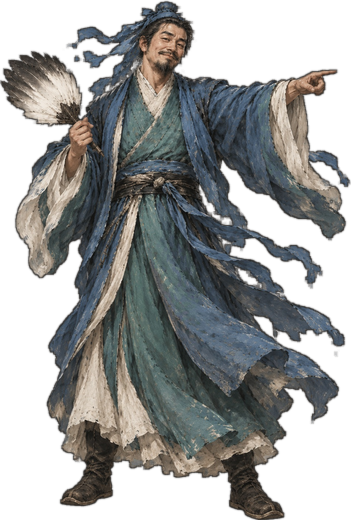
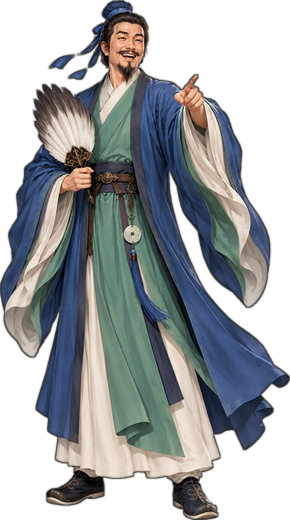
第17关剧情图补齐（30关全有）；简雍立绘和头像重画

diff --git a/设计/方案初稿.md b/设计/方案初稿.md
@@ -539,6 +539,8 @@
   - **神兵和卡关同步**（用户：「神兵不能那么容易升级，必须和卡关卡同步……目前第一章我们是哪几关比较难？如何设定？」→「按方案改」）：先实测「什么都不强化」时：1–8、10、12、15、16、20、26 关照样过，9、11、13、14、17–19、21、22、24、25、27、29、30 关大多过不去（缺的是剑印、龙鳞等招式），兵器本身没卡住任何一关。改成兵器每级 +12%、斗将差一级只打三成半、精铁 8/20/30/40/50，五个斗将关调到差一级 6 局最多赢 1 局（表见 `第一章设定.md` 5.6）。整体又重调一遍血量（这次发现上一轮有一次推演用的是浏览器缓存的旧页面，这轮全部重跑覆盖）。
   - **主页资料卡**（用户：「这个体也用个icon 吧，另外，这个游戏的物品就只有精铁吗？」「鼠标移动上去会有字说明，游戏UI」「你这些说明感觉好像很口语很儿戏，不像游戏」「其他来源都淡化，为什么这个不淡化」）：星、精铁、残页、陨铁、体力（ChatGPT 画的饭碗 `item_体力.png`）一排；所有物品图标鼠标悬停弹漆面说明牌（`hov`、`drawHoverTip`、`ITEM_TIP`）：金字名字、用途、淡色来源。
   - **剧情翻看、声效**（用户：「你专门开个故事我看看，可以来回翻动的」「这一下你不配一个打雷的声效吗」「来个马蹄声」「这个吕布白边明显，可以小一些」）：阅读模式（`?story` 或系统页翻看剧情）：点左边往回、右边往下，一场完接下一场，底下上一场/下一场；「轰——」配炸雷：轰隆轰隆三下、一下比一下远，每下整幅白闪、立绘一抖（用户：「雷声太小了，而且要轰隆轰隆2-3下」，`THUNDER`）；雷没打完（3.2 秒）点了不翻，打雷时音乐压到一成多、雷再加大，声效总线加了限幅防炸音（用户：「雷声没打完前不能继续。而且声音还是比音乐小」），「马蹄声」那句配由远而近的马蹄，张飞「哇——」配吼声（`STORY_SFX`）；其他人立绘在剧情里画小一些（400 高），八张立绘边缘往里收 1 像素去白边（`matte_portrait.py` 的 `ERODE`）。全文导出 `设计/第一章剧本.md`。
+  - **每关一张剧情图**（用户：「我刚说了，每一关都要有至少一张故事，强调逗B的剧情发展」）：30 张 ChatGPT 画（`美术/故事/关后/story_s<关>.jpg`，画面描述在同目录 `画面.md`），720 宽放 `img/story_s<关>.jpg`，整场铺这一张，图没读到时退回立绘。ChatGPT 一次让画五张会拼成一张五格图、再拿代码裁开扩边，改成一条消息一张、页面里挂脚本自动排队；有一次没出图被脚本误存成上一张（第 17 张），已重画。
+  - **简雍重画**（用户：「这个为什么模糊？……让chatGPT 照着重新生成一张」）：原图本身糊、衣服一层碎点，按同样姿势服装重画成干净大色块，立绘、头像都换了。
   - **「开封」改「研习」**（用户：「什么叫开封武将？」）：招式进阶一律叫研习。
   - **第一天能打到哪**（用户问）：`daily_sim.py` 改成和游戏一样「打通第一关当天就出军务」后：天天玩 45 分钟第一天打到第 8 关（时间用完）；玩 90 分钟以上的打到第 10 关、卡在第 11 关孟德献刀（要关羽「龙鳞破甲」残页 12，第一天只拿得到 9 页，第 9 关剑印先花 6 页），第二天过。
   - 手机上都没看过。
